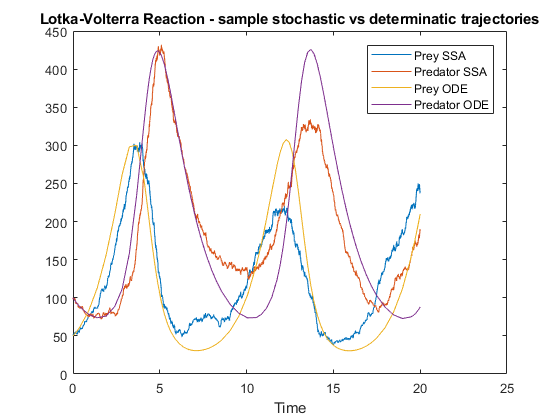
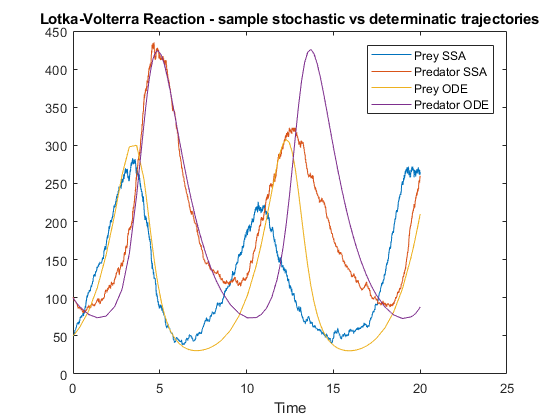
t axis fixed

diff --git a/html/script.html b/html/script.html
@@ -6,7 +6,7 @@
    <!--
 This HTML was auto-generated from MATLAB code.
 To make changes, update the MATLAB code and republish this document.
-      --><title>script</title><meta name="generator" content="MATLAB 9.3"><link rel="schema.DC" href="http://purl.org/dc/elements/1.1/"><meta name="DC.date" content="2018-03-10"><meta name="DC.source" content="script.m"><style type="text/css">
+      --><title>script</title><meta name="generator" content="MATLAB 9.3"><link rel="schema.DC" href="http://purl.org/dc/elements/1.1/"><meta name="DC.date" content="2019-03-18"><meta name="DC.source" content="script.m"><style type="text/css">
 html,body,div,span,applet,object,iframe,h1,h2,h3,h4,h5,h6,p,blockquote,pre,a,abbr,acronym,address,big,cite,code,del,dfn,em,font,img,ins,kbd,q,s,samp,small,strike,strong,sub,sup,tt,var,b,u,i,center,dl,dt,dd,ol,ul,li,fieldset,form,label,legend,table,caption,tbody,tfoot,thead,tr,th,td{margin:0;padding:0;border:0;outline:0;font-size:100%;vertical-align:baseline;background:transparent}body{line-height:1}ol,ul{list-style:none}blockquote,q{quotes:none}blockquote:before,blockquote:after,q:before,q:after{content:'';content:none}:focus{outine:0}ins{text-decoration:none}del{text-decoration:line-through}table{border-collapse:collapse;border-spacing:0}
 
 html { min-height:100%; margin-bottom:1px; }
@@ -103,6 +103,7 @@ x=zeros(n_steps, 2, 1000);
    x(1,:,j) = initial_condition;
 <span class="keyword">end</span>
 
+
 <span class="comment">%simulate</span>
 <span class="keyword">for</span> j = 1:1000
     i=0;
@@ -116,13 +117,13 @@ x=zeros(n_steps, 2, 1000);
 
 <span class="comment">% compare the typical trajactory with the ODE</span>
 hold <span class="string">off</span>;
-plot(linspace(0,t_max, n_steps), mean(x(:,1,:),3))
-hold <span class="string">on</span>;
+plot(0:dt:t-dt, mean(x(:,1,:),3))
 <span class="comment">%plot(linspace(0,t_max, n_steps), mean(x(:,2,:),3))</span>
+hold <span class="string">on</span>;
 plot(t1, X1(:,1));
 xlabel(<span class="string">'Time'</span>);
 ylabel(<span class="string">"Average number of preys"</span>);
-legend(<span class="string">"Average SSA"</span>, <span class="string">"ODE"</span>);
+legend(<span class="string">"Average SSA"</span>,  <span class="string">"ODE"</span>);
 </pre><img vspace="5" hspace="5" src="script_03.png" alt=""> <p class="footer"><br><a href="http://www.mathworks.com/products/matlab/">Published with MATLAB&reg; R2017b</a><br></p></div><!--
 ##### SOURCE BEGIN #####
 %% Demonstration of the Gillespie algorithm 
@@ -183,6 +184,7 @@ for j = 1:1000
    x(1,:,j) = initial_condition;
 end
 
+
 %simulate
 for j = 1:1000
     i=0;
@@ -196,13 +198,13 @@ end
 
 % compare the typical trajactory with the ODE
 hold off;
-plot(linspace(0,t_max, n_steps), mean(x(:,1,:),3))
-hold on;
+plot(0:dt:t-dt, mean(x(:,1,:),3))
 %plot(linspace(0,t_max, n_steps), mean(x(:,2,:),3))
+hold on;
 plot(t1, X1(:,1));
 xlabel('Time');
 ylabel("Average number of preys");
-legend("Average SSA", "ODE");
+legend("Average SSA",  "ODE");
 
 
 %%

diff --git a/script.m b/script.m
@@ -56,6 +56,7 @@ for j = 1:1000
    x(1,:,j) = initial_condition;
 end
 
+
 %simulate
 for j = 1:1000
     i=0;
@@ -69,13 +70,13 @@ end
 
 % compare the typical trajactory with the ODE
 hold off;
-plot(linspace(0,t_max, n_steps), mean(x(:,1,:),3))
-hold on;
+plot(0:dt:t-dt, mean(x(:,1,:),3))
 %plot(linspace(0,t_max, n_steps), mean(x(:,2,:),3))
+hold on;
 plot(t1, X1(:,1));
 xlabel('Time');
 ylabel("Average number of preys");
-legend("Average SSA", "ODE");
+legend("Average SSA",  "ODE");
 
 
 %%
